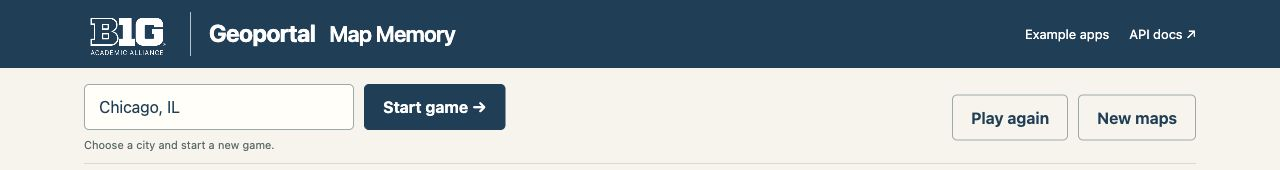
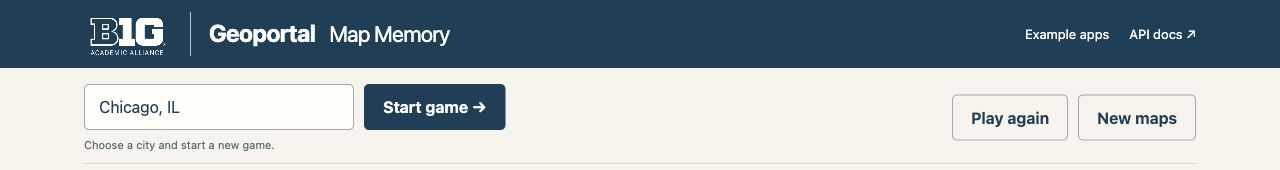
Lighten Map Memory subproject branding

Changed region(s): [[0.25, 0.1471, 0.375, 0.2647]]

diff --git a/apps/map-memory/styles.css b/apps/map-memory/styles.css
@@ -109,7 +109,7 @@ button:focus-visible,a:focus-visible,input:focus-visible {
 .brand-wordmark h1 {
   font:inherit;
   font-size:.92em;
-  font-weight:600;
+  font-weight:400;
   letter-spacing:inherit;
   margin:0;
   white-space:nowrap;

diff --git a/apps/map-memory/README.md b/apps/map-memory/README.md
@@ -135,7 +135,7 @@ The header uses the official white [BTAA logo](https://geo.btaa.org/btaa-logo.pn
 from the Geoportal, bundled locally in `assets/btaa-logo.png` with its original
 transparency and aspect ratio. The logo, a pale vertical divider, “Geoportal”, and “Map Memory” share one
 horizontal line with a shared typeface and baseline. “Geoportal” is bold;
-“Map Memory” is slightly smaller and semibold to balance its wider name. Navigation links move beneath the lockup on narrow screens;
+“Map Memory” is slightly smaller and regular weight to identify it as a subproject. Navigation links move beneath the lockup on narrow screens;
 the lockup links back to the example-app gallery. Explicit “Example apps” and
 “API docs” links also appear in the top navigation. The footer credits
 the BTAA Geospatial API and links to its documentation.
